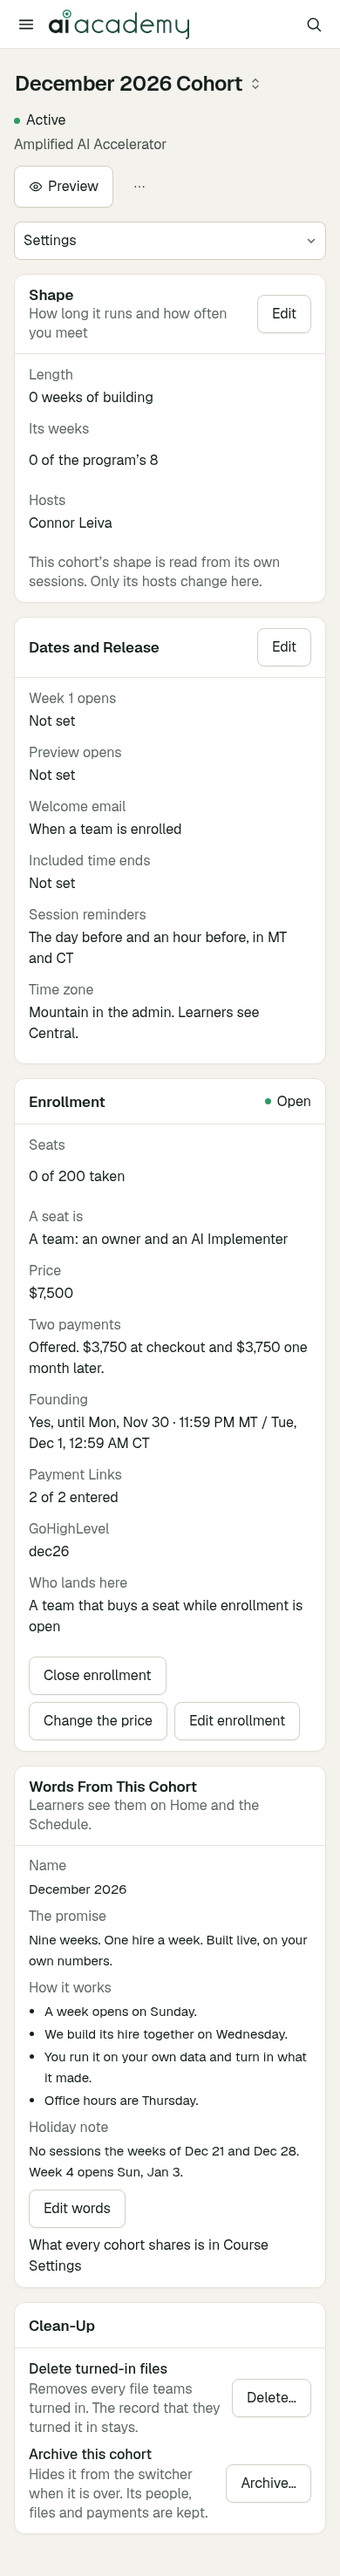
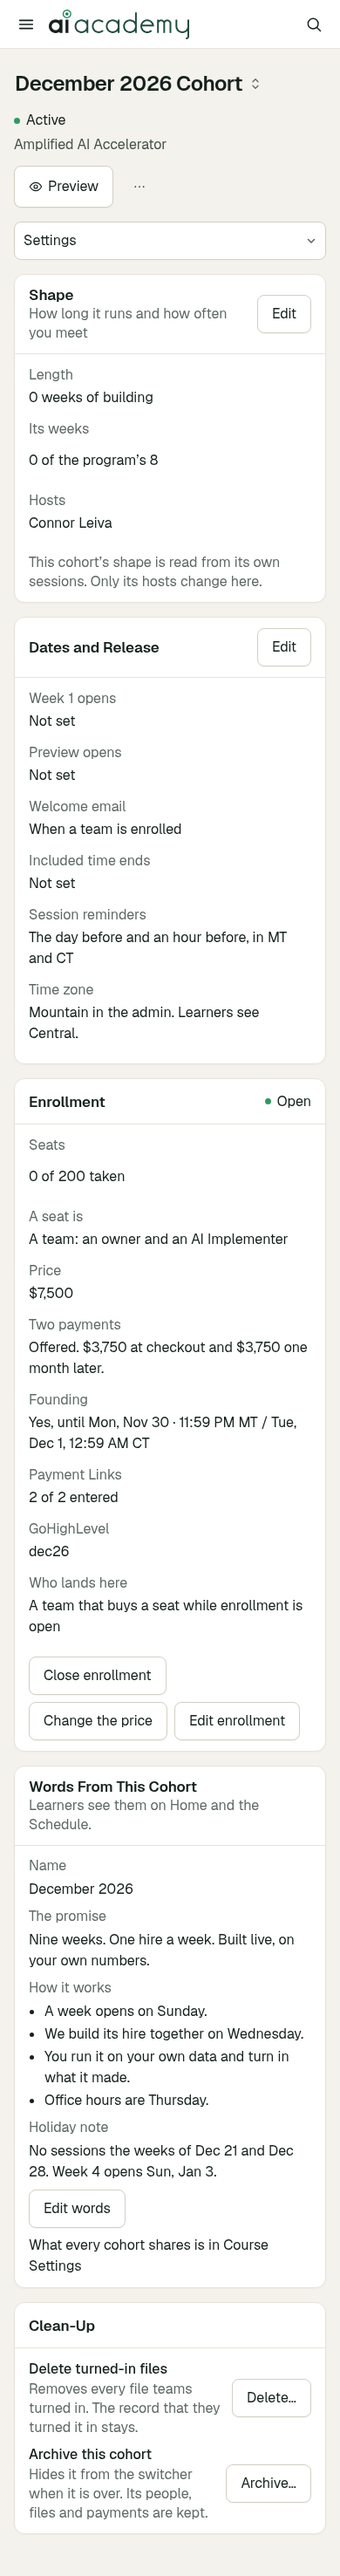
R-5 Phase 9: the e2e for the Overview, archive and the palette; an archived cohort is never the default; the words' 16px floor
- admin-overview.spec.ts: the Overview at 1280 and 390 (axe, landmarks, no MST, nothing sideways), its tiles, Needs
  You, the audience bar opening People filtered, Cohorts, Coming Up, the palette's cohorts, and Archive refused then
  confirmed (the cohort leaves the switcher and the Overview).
- admin-numbers walks People filtered and checks the Overview's targets; admin-audit-fixes, admin-r2-build and admin
  follow the new Overview (a learner's builds now show in their details on Cohort › People).
- The shell never defaults to or remembers an archived cohort; its address still opens it.
- lms-mobile walks Cohort › Settings: the words card kept 15px on a phone; 16px now, in the app and the reference
  (cohort-settings-390 and january-settings-390 re-rendered).

Claude-Session: https://claude.ai/code/session_01JTpLsUPf8w863QAh1rWtEb

Changed region(s): [[0.0923, 0.7477, 0.8923, 0.8412]]

diff --git a/compliance/tests/e2e/admin-overview.spec.ts b/compliance/tests/e2e/admin-overview.spec.ts
@@ -1,0 +1,154 @@
+import { test, expect, type Browser, type Page } from '@playwright/test';
+import { expectAccessible } from '../../lib/a11y';
+import { APP_BASE, PARITY_NOW, PARITY_QUERY, PARITY_TZ } from '../../lib/admin-r2';
+
+/**
+ * R-5 Phase 9 (D-270), in the fixture build:
+ *
+ *   - The Overview (`/admin`), the mockup's `Home`, on the R2 reference's data (`?parity=r2`): four tiles, each opening its
+ *     page; Needs You by cohort, then payments and the system, each row opening its place; Who Has a Sign-In, each
+ *     segment opening People filtered (`?gotIn=`), which People › Everyone reads from the address; Cohorts and Coming Up.
+ *     axe at 1280 and 390, the landmarks, one h1, no "MST", nothing sideways on a phone.
+ *   - The palette finds cohorts.
+ *   - Cohort › Settings › Clean-Up: Archive is refused before the last session and while the cohort sells (the mockup's
+ *     toast says why), then confirmed in a dialog; the archived cohort leaves the switcher and the Overview.
+ */
+
+async function parity(browser: Browser, path: string, width = 1440): Promise<{ page: Page; close: () => Promise<void> }> {
+  const ctx = await browser.newContext({ timezoneId: PARITY_TZ, locale: 'en-US', viewport: { width, height: width < 768 ? 844 : 900 } });
+  const page = await ctx.newPage();
+  await page.clock.setFixedTime(new Date(PARITY_NOW));
+  await page.goto(`${APP_BASE}${path}${path.includes('?') ? '&' : '?'}${PARITY_QUERY}`);
+  await page.locator('body[data-app-ready="true"]').waitFor({ timeout: 15_000 });
+  return { page, close: () => ctx.close() };
+}
+
+async function fixture(browser: Browser, path: string, now: string, width = 1280): Promise<{ page: Page; close: () => Promise<void> }> {
+  const ctx = await browser.newContext({ timezoneId: 'America/Denver', viewport: { width, height: width < 768 ? 844 : 900 } });
+  const page = await ctx.newPage();
+  await page.clock.setFixedTime(new Date(now));
+  await page.goto(`${APP_BASE}${path}${path.includes('?') ? '&' : '?'}as=admin&now=${encodeURIComponent(now)}`);
+  await page.locator('body[data-app-ready="true"]').waitFor({ timeout: 15_000 });
+  return { page, close: () => ctx.close() };
+}
+
+const tile = (page: Page, label: string) => page.locator('main a').filter({ has: page.getByText(label, { exact: true }) }).first();
+
+test.describe('the Overview (D-270) @console', () => {
+  for (const width of [1280, 390])
+    test(`passes axe and keeps the landmarks at ${width}`, async ({ browser }) => {
+      const { page, close } = await parity(browser, '/admin', width);
+      await expect(page.locator('main')).toContainText('16 with a sign-in');
+      await expect(page.locator('aside[aria-label="Primary"]')).toHaveCount(1);
+      await expect(page.locator('header nav[aria-label="Breadcrumb"]')).toHaveCount(1);
+      await expect(page.getByRole('heading', { level: 1 })).toHaveText('Overview');
+      expect(await page.locator('main').innerText()).not.toContain('MST');
+      expect(await page.evaluate(() => document.documentElement.scrollWidth <= document.documentElement.clientWidth)).toBe(true);
+      await expectAccessible(page);
+      await close();
+    });
+
+  test('four tiles, each opening its page; Needs You by cohort, each row opening its place', async ({ browser }) => {
+    const { page, close } = await parity(browser, '/admin');
+    const main = page.locator('main');
+    await expect(main).toContainText('What you teach, who is going through it, who has a sign-in, and what has been paid. Each one opens its page.');
+    for (const [label, href, text] of [
+      ['Program', '/admin/program', '9 weeks · 3 published, 6 in draft'],
+      ['Cohort', '/admin/cohort/dec26', 'Week 2 of 2 · 1 of 200 seats'],
+      ['People', '/admin/people', '1 in the cohort · 8 Utah Life, kept apart'],
+      ['Revenue', '/admin/revenue', '$7,500 still to collect · $12,429 a month'],
+    ] as const) {
+      await expect(tile(page, label)).toHaveAttribute('href', href);
+      await expect(tile(page, label)).toContainText(text);
+    }
+    // The old five stats are gone, and "Active learners" with them.
+    await expect(main.getByText('Active learners')).toHaveCount(0);
+    await expect(main.getByRole('button', { name: 'Export report' })).toHaveCount(0);
+
+    const needs = main.locator('section', { has: page.getByRole('heading', { name: 'Needs You' }) });
+    for (const g of ['December 2026 Cohort', 'January 2027 Cohort · Draft', 'Payments and system']) await expect(needs.getByText(g, { exact: true })).toBeVisible();
+    await expect(needs.getByRole('link', { name: /^3 payments failed/ })).toHaveAttribute('href', '/admin/revenue/payments/failed');
+    await expect(needs.getByRole('link', { name: /^2 teams asked to move up a plan/ })).toHaveAttribute('href', '/admin/revenue/plans');
+    await expect(needs.getByRole('link', { name: /^1 incident is open/ })).toHaveAttribute('href', '/admin/incidents');
+    await expect(needs.getByRole('link', { name: /^Payment Links entered/ })).toHaveAttribute('href', '/admin/cohort/jan27/settings#enrollment');
+    await needs.getByRole('link', { name: /^5 sessions have no Zoom link/ }).click();
+    await expect(page).toHaveURL(/\/admin\/cohort\/dec26\/schedule(\?|$)/);
+    await close();
+  });
+
+  test('Who Has a Sign-In: each segment opens People filtered by how they got in', async ({ browser }) => {
+    const { page, close } = await parity(browser, '/admin');
+    const card = page.locator('main section', { has: page.getByRole('heading', { name: 'Who Has a Sign-In' }) });
+    await expect(card).toContainText('16 people, each counted once. Utah Life agents are kept out of the learner count and out of revenue.');
+    await card.getByRole('link', { name: /AI Accelerator/ }).click();
+    await expect(page).toHaveURL(/\/admin\/people\?gotIn=plan%3Acohort/);
+    await expect(page.locator('main').getByRole('button', { name: /^AI Accelerator/ })).toHaveAttribute('aria-pressed', 'true');
+    await close();
+  });
+
+  test('Cohorts and Coming Up: every cohort not archived, and the next sessions in MT and CT', async ({ browser }) => {
+    const { page, close } = await parity(browser, '/admin');
+    const cohorts = page.locator('main section', { has: page.getByRole('heading', { name: 'Cohorts', exact: true }) });
+    await expect(cohorts.getByRole('link', { name: 'New cohort' })).toHaveAttribute('href', '/admin/cohort/new');
+    await expect(cohorts.getByRole('link', { name: /January 2027 Cohort/ })).toHaveAttribute('href', '/admin/cohort/jan27');
+    const coming = page.locator('main section', { has: page.getByRole('heading', { name: 'Coming Up' }) });
+    await expect(coming.getByText('Thu · 12:00 PM MT / 1:00 PM CT · December 2026')).toBeVisible();
+    await expect(coming.getByText('Tue · 12:00 PM MT / 1:00 PM CT · January 2027')).toBeVisible();
+    await close();
+  });
+
+  test('the palette finds cohorts', async ({ browser }) => {
+    const { page, close } = await parity(browser, '/admin');
+    await page.keyboard.press('Control+k');
+    const palette = page.getByRole('dialog', { name: 'Command palette' });
+    await palette.getByRole('combobox', { name: 'Command palette search' }).fill('january');
+    await expect(palette.getByRole('group', { name: 'Cohorts' }).getByRole('option')).toHaveText([/January 2027 Cohort/]);
+    await page.keyboard.press('Enter');
+    await expect.poll(() => new URL(page.url()).pathname).toBe('/admin/cohort/jan27');
+    await close();
+  });
+});
+
+test.describe('Cohort › Settings › Clean-Up: Archive this cohort (D-270) @console', () => {
+  test('refused before the last session, with the mockup’s words', async ({ browser }) => {
+    const { page, close } = await fixture(browser, '/admin/cohort/dec26/settings', '2026-12-10T16:30:00.000Z');
+    const clean = page.locator('main section', { has: page.getByRole('heading', { name: 'Clean-Up' }) });
+    await expect(clean).toContainText('Hides it from the switcher when it is over. Its people, files and payments are kept.');
+    await clean.getByRole('button', { name: 'Archive…' }).click();
+    await expect(page.getByText(/^A cohort can be archived after its last session, \w{3}, \w{3} \d{1,2}\.$/)).toBeVisible();
+    await expect(page.getByRole('dialog')).toHaveCount(0);
+    await close();
+  });
+
+  test('after its last session: refused while it sells; closed, then confirmed, it leaves the switcher and the Overview', async ({ browser }) => {
+    const { page, close } = await fixture(browser, '/admin/cohort/dec26/settings', '2027-02-01T17:00:00.000Z');
+    const clean = page.locator('main section', { has: page.getByRole('heading', { name: 'Clean-Up' }) });
+    await clean.getByRole('button', { name: 'Archive…' }).click();
+    await expect(page.getByText('Close enrollment first. An archived cohort sells no seats.', { exact: true })).toBeVisible();
+
+    const enrollment = page.locator('#cohort-enrollment');
+    await enrollment.getByRole('button', { name: 'Close enrollment' }).click();
+    await page.getByRole('dialog').getByRole('button', { name: 'Close enrollment' }).click();
+    await expect(page.getByText('Enrollment is closed', { exact: true })).toBeVisible();
+
+    await clean.getByRole('button', { name: 'Archive…' }).click();
+    const dialog = page.getByRole('dialog', { name: 'Archive the December 2026 Cohort?' });
+    await expect(dialog).toContainText('Its people, files and payments are kept, and nothing is sent to anyone.');
+    await expectAccessible(page);
+    await dialog.getByRole('button', { name: 'Archive', exact: true }).click();
+    await expect(dialog).toHaveCount(0);
+    await expect(page.getByText('The cohort is archived', { exact: true })).toBeVisible();
+
+    await page.locator('aside[aria-label="Primary"]').getByRole('button', { name: /^Switch cohort/ }).click();
+    const menu = page.getByRole('menu', { name: 'Cohorts' });
+    await expect(menu.getByRole('menuitem', { name: /December 2026/ })).toHaveCount(0);
+    await expect(menu.getByRole('menuitem', { name: /February 2027 Cohort/ })).toHaveCount(1);
+    await page.keyboard.press('Escape');
+
+    await page.locator('aside[aria-label="Primary"]').getByRole('button', { name: 'Overview', exact: true }).click();
+    const cohorts = page.locator('main section', { has: page.getByRole('heading', { name: 'Cohorts', exact: true }) });
+    await expect(cohorts.getByRole('link', { name: /February 2027 Cohort/ })).toBeVisible();
+    await expect(cohorts.getByRole('link', { name: /December 2026/ })).toHaveCount(0);
+    await close();
+  });
+});

diff --git a/compliance/tests/e2e/admin-numbers.spec.ts b/compliance/tests/e2e/admin-numbers.spec.ts
@@ -10,7 +10,7 @@ import { APP_BASE, PARITY_NOW, PARITY_QUERY, PARITY_TZ } from '../../lib/admin-r
  * digit that is not a date or a time) must sit inside a link or a button, so it opens the list it counts. A date
  * ("Sun, Nov 29 · 12:00 PM MT / 1:00 PM CT") opens nothing by this rule.
  *
- * It walks every screen of R-5 (the Overview, Program and its pages (D-265), every Cohort tab for December and for January as a draft, People's
+ * It walks every screen of R-5 (the Overview (the mockup's Home since D-270), Program and its pages (D-265), every Cohort tab for December and for January as a draft, People's
  * tabs and Utah Life, Revenue's Summary (D-269), Payments and Plans & Upgrades) on the mockup's data (the parity fixture), at 1440. The planted check at the end
  * proves it fails on a number that is not a link.
  */
@@ -37,6 +37,8 @@ const SCREENS = [
   '/admin/cohort/jan27',
   '/admin/cohort/jan27/schedule',
   '/admin/cohort/jan27/settings',
+  // D-270 (R-5 Phase 9): People filtered, as the Overview's audience bar opens it.
+  '/admin/people?gotIn=plan%3Acohort',
   '/admin/people',
   '/admin/people/teams',
   '/admin/people/groups/utah-life',
@@ -88,10 +90,19 @@ test.describe('every admin number opens the list it counts (D-267, spec § 4 rul
     });
   }
 
-  test('Build completion opens the builds it counts (Connor, Nov 26)', async ({ page }) => {
+  // R-5 Phase 9 (D-270): the Overview is the mockup's `Home`; "Build completion" went with today's five stats. Each tile,
+  // Needs You row and audience segment opens the list it counts.
+  test('the Overview’s numbers open what they count (D-270)', async ({ page }) => {
     await open(page, '/admin');
-    const tile = page.locator('main a').filter({ hasText: 'Build completion' });
-    await expect(tile).toHaveAttribute('href', '/admin/program');
+    const main = page.locator('main');
+    const href = (re: RegExp) => main.getByRole('link', { name: re }).first().getAttribute('href');
+    expect(await href(/^Program/)).toBe('/admin/program');
+    expect(await href(/^Cohort\b.*of 200 seats/)).toBe('/admin/cohort/dec26');
+    expect(await href(/^People\b.*with a sign-in/)).toBe('/admin/people');
+    expect(await href(/^Revenue\b.*collected/)).toBe('/admin/revenue');
+    expect(await href(/^5 sessions have no Zoom link/)).toBe('/admin/cohort/dec26/schedule');
+    expect(await href(/^3 payments failed/)).toBe('/admin/revenue/payments/failed');
+    expect(await href(/^8\s*Utah Life/)).toBe('/admin/people?gotIn=group%3Autah-life');
   });
 
   test('the walk fails on a number that is not a link (a planted one)', async ({ page }) => {

diff --git a/compliance/tests/e2e/admin-audit-fixes.spec.ts b/compliance/tests/e2e/admin-audit-fixes.spec.ts
@@ -8,7 +8,7 @@ import { APP_BASE, PARITY_NOW, PARITY_QUERY, PARITY_TZ } from '../../lib/admin-r
  *   - People › Utah Life: the access group's own tab, named by the group, read-only: each agent's line over their address
  *     and when they were last active or "Invite pending"; a row opens the person. axe at 1280 and 390.
  *   - January's Cohort head and its Opens fact: Week 0's and Week 1's openings before Week 1 opens.
- *   - The Overview's header and its tiles for the selected cohort; Build completion opens the builds.
+ *   - The Overview's Cohort tile is the selected cohort's (D-270: the mockup's Home replaced the header and its stats).
  *   - Cohort › Announcements and Community are each cohort's own: an announcement made on January's tab stays on
  *     January's list, and January's Community holds none of December's threads.
  *   - The admin prints no "MST", and every time is MT with CT after it, "Dec 9, 9:14 PM MT / 10:14 PM CT" (Connor's rule,
@@ -104,17 +104,16 @@ test.describe('the R-5 audit fixes (D-267) @console', () => {
     await close();
   });
 
-  test('the Overview reports on the selected cohort, and Build completion opens the builds', async ({ browser }) => {
+  test('the Overview’s Cohort tile is the selected cohort’s (D-270)', async ({ browser }) => {
     const { page, close } = await parity(browser, '/admin', 1440);
-    await expect(page.locator('main')).toContainText(
-      'December 2026 Cohort · Week 2 of 6 · Updated live from learner activity',
-    );
-    await expect(page.locator('main a').filter({ hasText: 'Active learners' })).toHaveAttribute(
-      'href',
-      '/admin/cohort/dec26/people',
-    );
-    await page.locator('main a').filter({ hasText: 'Build completion' }).click();
-    await expect(page).toHaveURL(/\/admin\/program(\?|$)/);
+    const cohortTile = page.locator('main a').filter({ hasText: /^Cohort/ }).first();
+    await expect(cohortTile).toHaveAttribute('href', '/admin/cohort/dec26');
+    await expect(cohortTile).toContainText('Week 2 of 2 · 1 of 200 seats');
+    // Picking January in the sidebar's switcher stays on the Overview, and the tile follows it.
+    await page.locator('aside[aria-label="Primary"]').getByRole('button', { name: /^Switch cohort/ }).click();
+    await page.getByRole('menu', { name: 'Cohorts' }).getByRole('menuitem', { name: /January 2027 Cohort/ }).click();
+    await expect(cohortTile).toHaveAttribute('href', '/admin/cohort/jan27');
+    await expect(cohortTile).toContainText('Draft · 8 left before it opens');
     await close();
   });
 

diff --git a/compliance/tests/e2e/admin-r2-build.spec.ts b/compliance/tests/e2e/admin-r2-build.spec.ts
@@ -271,28 +271,15 @@ test.describe('Overview, Learners & Teams, Tiers & Upgrades and Staff & Roles on
       }
     });
 
-  test('Overview: the mockup’s figures, from the snapshot; each tile goes where the mockup’s does', async ({
-    browser,
-  }) => {
+  // R-5 Phase 9 (D-270): the Overview is the mockup's `Home` (`admin-overview.spec.ts` drives it); today's five stats,
+  // chart, feed, funnel and attendance are gone with "Active learners".
+  test('Overview: the mockup’s Home, from the snapshot; each tile goes where the mockup’s does', async ({ browser }) => {
     const { page, close } = await openAt(browser, '/admin');
     const main = page.locator('main');
-    await expect(
-      main.getByText('December 2026 Cohort · Week 2 of 6 · Updated live from learner activity'),
-    ).toBeVisible();
-    await expect(main.getByRole('link', { name: /Active learners\s*148\s*104 Agent · 44 Team/ })).toHaveAttribute(
-      'href',
-      '/admin/cohort/dec26/people',
-    );
-    await expect(main.getByRole('link', { name: /Upgrade pipeline\s*\$8,000\s*2 open requests/ })).toHaveAttribute(
-      'href',
-      '/admin/revenue/plans',
-    );
-    await expect(main.getByText('Build completion')).toBeVisible();
-    await expect(
-      main.getByRole('img', { name: 'Deployed AI Employees rose from 22 on Dec 2 to 190 on Dec 8.' }),
-    ).toBeVisible();
-    await expect(main.getByText('Session 3 · Dec 16')).toBeVisible();
-    await expect(main.getByText('Upcoming')).toBeVisible();
+    await expect(main.getByRole('link', { name: /^Revenue\s*\$82,694 collected/ })).toHaveAttribute('href', '/admin/revenue');
+    await expect(main.getByRole('link', { name: /^2 teams asked to move up a plan/ })).toHaveAttribute('href', '/admin/revenue/plans');
+    await expect(main.getByText('Active learners')).toHaveCount(0);
+    await expect(main.getByText('Build completion')).toHaveCount(0);
     await close();
   });
 

diff --git a/apps/web/src/shell/admin/cohorts.ts b/apps/web/src/shell/admin/cohorts.ts
@@ -5,16 +5,21 @@
 // start, else the newest. Remembering it for a staff member across visits (`users.prefs`) waits for Phase 3: the prefs
 // route accepts only `tz`, `theme` and `sidebar` today (`apps/api/src/routes/auth.ts`).
 //
-// The pickers (the switcher and the Cohort page's title) list every cohort that exists, a draft marked "· Draft". No
-// cohort is archived yet (`archivedAt` arrives in Phase 2). "New cohort…" arrives with its page in Phase 3.
+// The pickers (the switcher and the Cohort page's title) list every cohort that is not archived, a draft marked "· Draft",
+// then "New cohort…" (Phase 3). R-5 Phase 9 (D-270): an archived cohort is never the default, nor the one remembered;
+// its address still opens it.
 
 import type { Cohort } from '@ai/core';
 import { cohortLabel } from '../../data/admin-shell';
 
 type CohortLike = Pick<Cohort, 'id' | 'name' | 'start' | 'end' | 'status' | 'archivedAt'>;
 
-/** The cohort `/admin/cohort` opens: running (started, not ended, not a draft), else the next to start, else the newest. */
-export function defaultCohortId(cohorts: readonly CohortLike[], now: number): string | null {
+/**
+ * The cohort `/admin/cohort` opens: running (started, not ended, not a draft), else the next to start, else the newest.
+ * Archived cohorts are not candidates (D-270).
+ */
+export function defaultCohortId(all: readonly CohortLike[], now: number): string | null {
+  const cohorts = all.filter((c) => c.archivedAt === undefined);
   if (!cohorts.length) return null;
   const live = cohorts.filter((c) => c.status !== 'draft' && c.start <= now && now < c.end).sort((a, b) => b.start - a.start);
   if (live[0]) return live[0].id;

diff --git a/compliance/tests/e2e/admin.spec.ts b/compliance/tests/e2e/admin.spec.ts
@@ -100,7 +100,13 @@ test('gating an AI Employee to Team only locks it for agents @g6', async ({ brow
 
 test('learner progress shows up in admin @g6', async ({ browser }) => {
   const { admin, learner, close } = await pair(browser);
-  await open(admin, '/admin?as=admin');
+  // R-5 Phase 9 (D-270): the Overview is the mockup's `Home`, which has no live feed; a learner's builds show in their
+  // details on Cohort › People (D-268: the drawer stays), and it follows the learner without a reload.
+  await open(admin, '/admin/cohort/dec26/people?tab=learners&as=admin');
+  await admin.locator('main section[aria-label="Learners"]').getByRole('row', { name: /Jamie Ortiz/ }).getByRole('button', { name: 'More actions' }).click();
+  await admin.getByRole('menuitem', { name: 'Open learner details' }).click();
+  const drawer = admin.locator('[data-drawer="open"]');
+  await expect(drawer.getByText('Build Progress')).toBeVisible();
   await open(learner, '/employees/sales?as=agent');
 
   // One step at a time, and each click must land before the next count. Counting straight after a
@@ -112,7 +118,7 @@ test('learner progress shows up in admin @g6', async ({ browser }) => {
     await expect(verify).toHaveCount(left - 1);
   }
 
-  await expect(admin.getByText(/Jamie Ortiz\s*built Sales AI Employee/)).toBeVisible();
+  await expect(drawer.locator('li, tr, div').filter({ hasText: /^Sales AI Employee/ }).filter({ hasText: 'Built' }).first()).toBeVisible();
   await close();
 });
 

diff --git a/design-reference/admin-redesign-r2/AdminRedesign.jsx b/design-reference/admin-redesign-r2/AdminRedesign.jsx
@@ -376,7 +376,7 @@ button.stat{cursor:pointer;transition:border-color .12s,box-shadow .12s}button.s
 .tdc{width:20px;height:20px;border-radius:50%;border:1.5px solid var(--line2);display:flex;align-items:center;justify-content:center;flex:none;color:#fff}
 .tdo.ok .tdc{background:#2E9A63;border-color:#2E9A63}.tdo.ok .w5{color:var(--f2);font-weight:400}
 .set2{display:grid;grid-template-columns:repeat(2,minmax(0,1fr));gap:16px;align-items:start}.lap .set2,.ph .set2{grid-template-columns:minmax(0,1fr)}
-.cfx{display:grid;grid-template-columns:116px minmax(0,1fr);gap:4px 16px;font-size:calc(var(--t) - 1px)}.ph .cfx{grid-template-columns:minmax(0,1fr)}
+.cfx{display:grid;grid-template-columns:116px minmax(0,1fr);gap:4px 16px;font-size:calc(var(--t) - 1px)}.ph .cfx{grid-template-columns:minmax(0,1fr);font-size:16px}
 .cfl{margin:0;padding-left:18px;display:flex;flex-direction:column;gap:2px;font-weight:400}
 .wpl{display:flex;flex-direction:column}.wpl>*+*{border-top:1px solid var(--line)}
 .wpk{display:flex;align-items:center;gap:12px;padding:10px 20px;min-height:56px;cursor:pointer;font-size:calc(var(--t) - 1px)}.wpk:hover{background:var(--hov)}.ph .wpk{padding:10px 16px;flex-wrap:wrap}

diff --git a/apps/web/src/shell/admin/cohorts.test.ts b/apps/web/src/shell/admin/cohorts.test.ts
@@ -24,6 +24,14 @@ describe('the cohort the admin is on', () => {
     expect(defaultCohortId([], D('2026-10-01T12:00:00Z'))).toBeNull();
   });
 
+  it('is never an archived cohort (R-5 Phase 9, D-270)', () => {
+    const archived = { ...jan, archivedAt: D('2027-02-13T00:00:00Z') };
+    // Feb 20: the newest would be January; archived, December is.
+    expect(defaultCohortId([old, dec, archived], D('2027-02-20T12:00:00Z'))).toBe('dec26');
+    expect(defaultCohortId([{ ...dec, archivedAt: 1 }], D('2027-02-20T12:00:00Z'))).toBeNull();
+    expect(cohortChoices([archived, dec], 'dec26').map((c) => c.id)).toEqual(['dec26']);
+  });
+
   it('lists every cohort that exists in start order, a draft marked, the current one checked', () => {
     expect(cohortChoices([jan, dec], 'dec26')).toEqual([
       { id: 'dec26', label: 'December 2026 Cohort', current: true },

diff --git a/apps/web/src/shell/admin/AdminShell.tsx b/apps/web/src/shell/admin/AdminShell.tsx
@@ -129,7 +129,8 @@ export function AdminShell() {
     remembered.current = addressCohort;
     void repo.savePrefs({ cohort: addressCohort }).catch(() => undefined);
   }, [addressCohort, parity]);
-  const known = (id: string | null) => (id && db.cohorts.some((c) => c.id === id) ? id : null);
+  // R-5 Phase 9 (D-270): a cohort archived since it was looked at is not remembered; its address still opens it.
+  const known = (id: string | null) => (id && db.cohorts.some((c) => c.id === id && c.archivedAt === undefined) ? id : null);
   const cohortId = addressCohort ?? known(lastCohort) ?? defaultCohortId(db.cohorts, now);
   const current = db.cohorts.find((c) => c.id === cohortId) ?? null;
 

diff --git a/compliance/tests/e2e/lms-mobile.spec.ts b/compliance/tests/e2e/lms-mobile.spec.ts
@@ -104,6 +104,8 @@ const ROUTES: readonly [Persona, string][] = [
   ['admin', '/admin/health?console-state=empty'],
   ['admin', '/admin/health?console-sample=off'],
   ['admin', '/admin/build'],
+  // R-5 Phase 9 (D-270): Cohort › Settings, whose Clean-Up card holds Archive this cohort.
+  ['admin', '/admin/cohort/dec26/settings'],
   ['agent', '/course'],
   ['agent', '/skill-library'],
   ['agent', '/skill-library/perfect-week'],

diff --git a/packages/core/src/cohort-actions.ts b/packages/core/src/cohort-actions.ts
@@ -795,7 +795,7 @@ export function archiveCohort(db: Db, a: Actor, args: { cohortId: string }, c: C
   });
   return {
     db: next,
-    toast: { msg: `${co.name} is archived`, tone: 'success' },
+    toast: { msg: 'The cohort is archived', tone: 'success' },
     audit: {
       action: 'cohort.archive',
       target: { type: 'cohort', id: co.id, label: co.name },

diff --git a/apps/web/src/routes/admin/cohort/Cohort.module.css b/apps/web/src/routes/admin/cohort/Cohort.module.css
@@ -644,8 +644,10 @@ a.plain {
   .set2 {
     grid-template-columns: minmax(0, 1fr);
   }
+  /* D-270 (R-5 Phase 9): the words keep the 16px floor on a phone (`lms-mobile.spec.ts`), as the reference's `.ph .cfx` does. */
   .cfx {
     grid-template-columns: minmax(0, 1fr);
+    font-size: 16px;
   }
   .g2 {
     grid-template-columns: minmax(0, 1fr);
